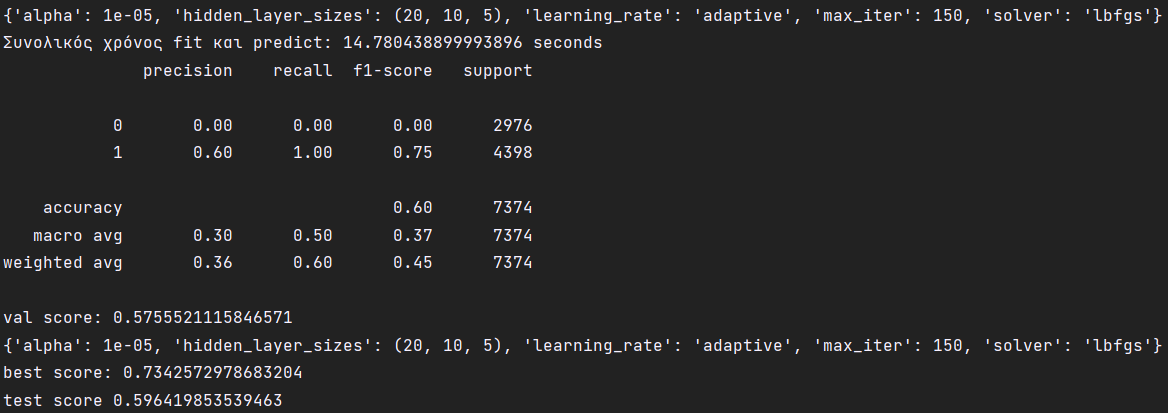
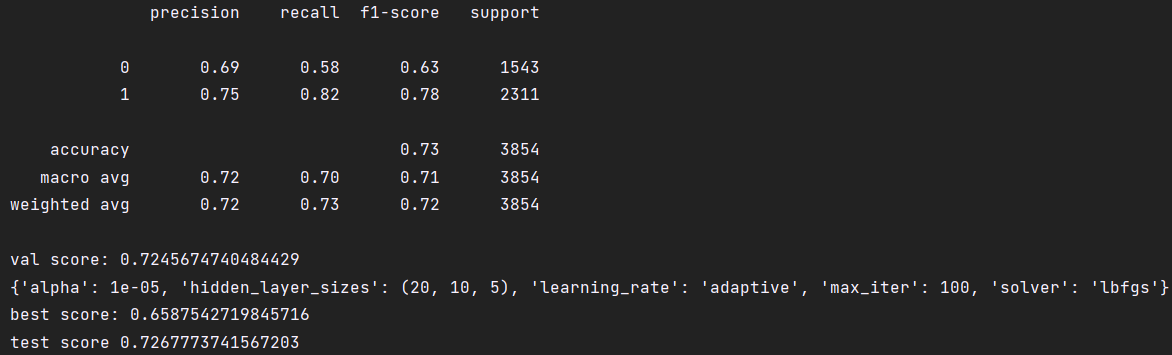
There are improvements to be made...

diff --git a/venv/Classification/svm.py b/venv/Classification/svm.py
@@ -10,27 +10,24 @@ features1 = features1.dropna(axis=0)
 features2 = away_team
 features2 = features2.dropna(axis=0)
 
-train_data = features1.loc[(features1.SEASON <= 2013) & (features1.SEASON >= 2007)]
-valid_data = features1.loc[(features1.SEASON > 2013) & (features1.SEASON < 2016)]
-test_data = features1.loc[features1.SEASON >= 2016]
+train_data = features2.loc[(features2.SEASON <= 2013) & (features2.SEASON >= 2007)]
+valid_data = features2.loc[(features2.SEASON > 2013) & (features2.SEASON < 2016)]
+test_data = features2.loc[features2.SEASON >= 2016]
 full_train_data = pd.concat([train_data, valid_data], axis=0)
 
 X, y = train_data.drop(columns=['HOME_TEAM_WINS']), train_data.HOME_TEAM_WINS
 valid_X, valid_y = valid_data.drop(columns=['HOME_TEAM_WINS']), valid_data.HOME_TEAM_WINS
 test_X, test_y = test_data.drop(columns=['HOME_TEAM_WINS']), test_data.HOME_TEAM_WINS
 
-X_train, X_test, y_train, y_test = train_test_split(train_data, test_data, test_size=0.40)
+X_train, X_test, y_train, y_test = train_test_split(X, y, test_size=0.40)
 
 # Split Data to Train and Validation
 X_train, X_val, y_train, y_val = train_test_split(X_train, y_train, test_size=0.25, random_state=8)
 
 
-# "Support vector classifier"
+# Support vector classifier
 model = SVC()
 model.fit(X_train, y_train)
-# pca = RandomizedPCA(whiten=True)
-# svc = SVC(class_weight='balanced')
-# model = make_pipeline(pca, svc)
 
 # defining parameter range
 param_grid = {'C': [0.1, 1, 10, 100, 1000],
@@ -39,9 +36,6 @@ param_grid = {'C': [0.1, 1, 10, 100, 1000],
 
 grid = GridSearchCV(model, param_grid, cv=5, scoring='accuracy', n_jobs=-1)
 
-# %time grid.fit(Xtrain, ytrain)
-
-# grid = GridSearchCV(model, param_grid=grid, cv=5, scoring='accuracy', n_jobs=-1)
 start_time = time.time()
 grid.fit(X_train, y_train)
 val_score = grid.score(X_val, y_val)
@@ -49,7 +43,6 @@ val_score = grid.score(X_val, y_val)
 preds = grid.predict(X_test)
 test_score = grid.score(X_test, y_test)
 
-print(grid.best_params_)
 print("Συνολικός χρόνος fit και predict: %s seconds" % (time.time() - start_time))
 print(classification_report(y_test, preds))
 print("val score:", val_score)

diff --git a/venv/Classification/mlp.py b/venv/Classification/mlp.py
@@ -11,16 +11,16 @@ features1 = features1.dropna(axis=0)
 features2 = away_team
 features2 = features2.dropna(axis=0)
 
-train_data = features1.loc[(features1.SEASON <= 2013) & (features1.SEASON >= 2007)]
-valid_data = features1.loc[(features1.SEASON > 2013) & (features1.SEASON < 2016)]
-test_data = features1.loc[features1.SEASON >= 2016]
+train_data = features2.loc[(features2.SEASON <= 2013) & (features2.SEASON >= 2007)]
+valid_data = features2.loc[(features2.SEASON > 2013) & (features2.SEASON < 2016)]
+test_data = features2.loc[features2.SEASON >= 2016]
 full_train_data = pd.concat([train_data, valid_data], axis=0)
 
 X, y = train_data.drop(columns=['HOME_TEAM_WINS']), train_data.HOME_TEAM_WINS
 valid_X, valid_y = valid_data.drop(columns=['HOME_TEAM_WINS']), valid_data.HOME_TEAM_WINS
 test_X, test_y = test_data.drop(columns=['HOME_TEAM_WINS']), test_data.HOME_TEAM_WINS
 
-X_train, X_test, y_train, y_test = train_test_split(train_data, test_data, test_size=0.40)
+X_train, X_test, y_train, y_test = train_test_split(X, y, test_size=0.40)
 
 # Split Data to Train and Validation
 X_train, X_val, y_train, y_val = train_test_split(X_train, y_train, test_size=0.25, random_state=8)
@@ -32,16 +32,12 @@ model.fit(X_train, y_train)
 # defining parameter range
 param_grid = {'max_iter': list(range(100, 300, 50)),
               'hidden_layer_sizes': [(20, 10, 5)],
-              # 'activation': ['tanh', 'relu'],
               'solver': ['lbfgs'],
               'alpha': [1e-05],
               'learning_rate': ['adaptive']}
 
 grid = GridSearchCV(model, param_grid, cv=5, scoring='accuracy', n_jobs=-1)
 
-# %time grid.fit(Xtrain, ytrain)
-
-# grid = GridSearchCV(model, param_grid=grid, cv=5, scoring='accuracy', n_jobs=-1)
 start_time = time.time()
 grid.fit(X_train, y_train)
 val_score = grid.score(X_val, y_val)
@@ -49,7 +45,6 @@ val_score = grid.score(X_val, y_val)
 preds = grid.predict(X_test)
 test_score = grid.score(X_test, y_test)
 
-print(grid.best_params_)
 print("Συνολικός χρόνος fit και predict: %s seconds" % (time.time() - start_time))
 print(classification_report(y_test, preds))
 print("val score:", val_score)
